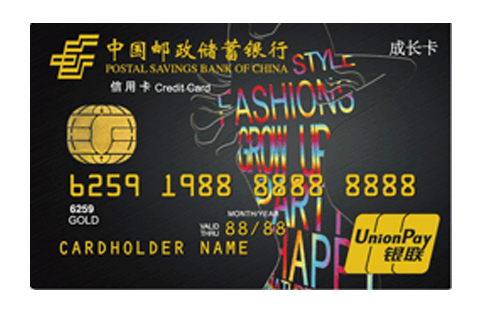
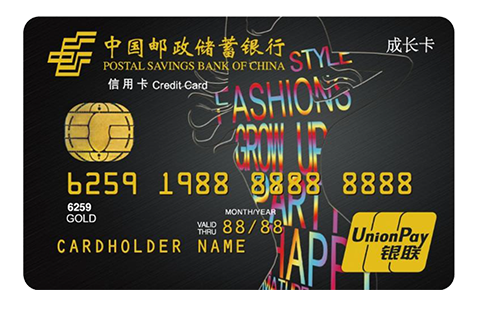
推荐人手机号

Changed region(s): [[0.0311, 0.0302, 0.9647, 0.8761]]

diff --git a/src/main/webapp/static/css/apply.css b/src/main/webapp/static/css/apply.css
@@ -172,7 +172,7 @@ ul.input-multi-select li.on .glyphicon {
 }
 .carousel-inner>.item>img.card {
     position: absolute;
-    top: 30px;
+    top: 20px;
     left: 15%;
     right: 15%;
     width: 70%;
@@ -207,7 +207,7 @@ ul.input-multi-select li.on .glyphicon {
 
 .carousel-caption {
     position: absolute;
-    top: 200px;
+    top: 190px;
     right: 50px;
     bottom: 150px;
     left: 50px;
@@ -225,11 +225,11 @@ ul.input-multi-select li.on .glyphicon {
     font-weight: bold;
 }
 .carousel-caption span.highlight {
-    font-size: 18px;
+    color: #ffe417;
     font-weight: 500;
 }
 .thumbnail span.highlight {
-    font-size: 18px;
+    color: #ffe417;
     font-weight: 500;
 }
 

diff --git a/src/main/webapp/static/js/apply.js b/src/main/webapp/static/js/apply.js
@@ -127,7 +127,9 @@ function submitForm() {
         profession: $('#profession-select').val(),
         fund: $('.input-single-select li.on[name="accumulation_fund"]').text(),
         orgId: $('select[name="orgId"]').val(),
-        bankId: $('select[name="bankId"]').val()
+        bankId: $('select[name="bankId"]').val(),
+        refereePhone: $('input[name="referee-phone"]').val()
+
         // income: parseInt($('input[name="income"]').val())
     };
     if (data.profession == '其他') {

diff --git a/src/main/java/com/ttonway/bluecard/controller/ApplyController.java b/src/main/java/com/ttonway/bluecard/controller/ApplyController.java
@@ -64,13 +64,14 @@ public class ApplyController {
 
     @RequestMapping("/submit")
     @ResponseBody
-    public Map<String, Object> submit(String name, String phone, String profession, String fund, Long orgId, Long bankId) {
+    public Map<String, Object> submit(String name, String phone, String profession, String fund, Long orgId, Long bankId, String refereePhone) {
 
         ApplyRecord record = new ApplyRecord();
         record.setUserName(name);
         record.setPhoneNumber(phone);
         record.setProfession(profession);
         record.setAccumulationFund(fund);
+        record.setRefereePhone(refereePhone);
 
         record.setIncome(-1);
         record.setCreditLine(-1);

diff --git a/src/main/java/com/ttonway/bluecard/pojo/ApplyRecord.java b/src/main/java/com/ttonway/bluecard/pojo/ApplyRecord.java
@@ -41,6 +41,7 @@ public class ApplyRecord {
 
     private Integer income;
     private Integer creditLine;
+    private String refereePhone;
 
     private String createTime;
     private String updateTime;
@@ -144,5 +145,13 @@ public class ApplyRecord {
 
     public String getStatusName() {
         return STATUS_NAME_MAP.get(status);
+    }
+
+    public String getRefereePhone() {
+        return refereePhone;
+    }
+
+    public void setRefereePhone(String refereePhone) {
+        this.refereePhone = refereePhone;
     }
 }
